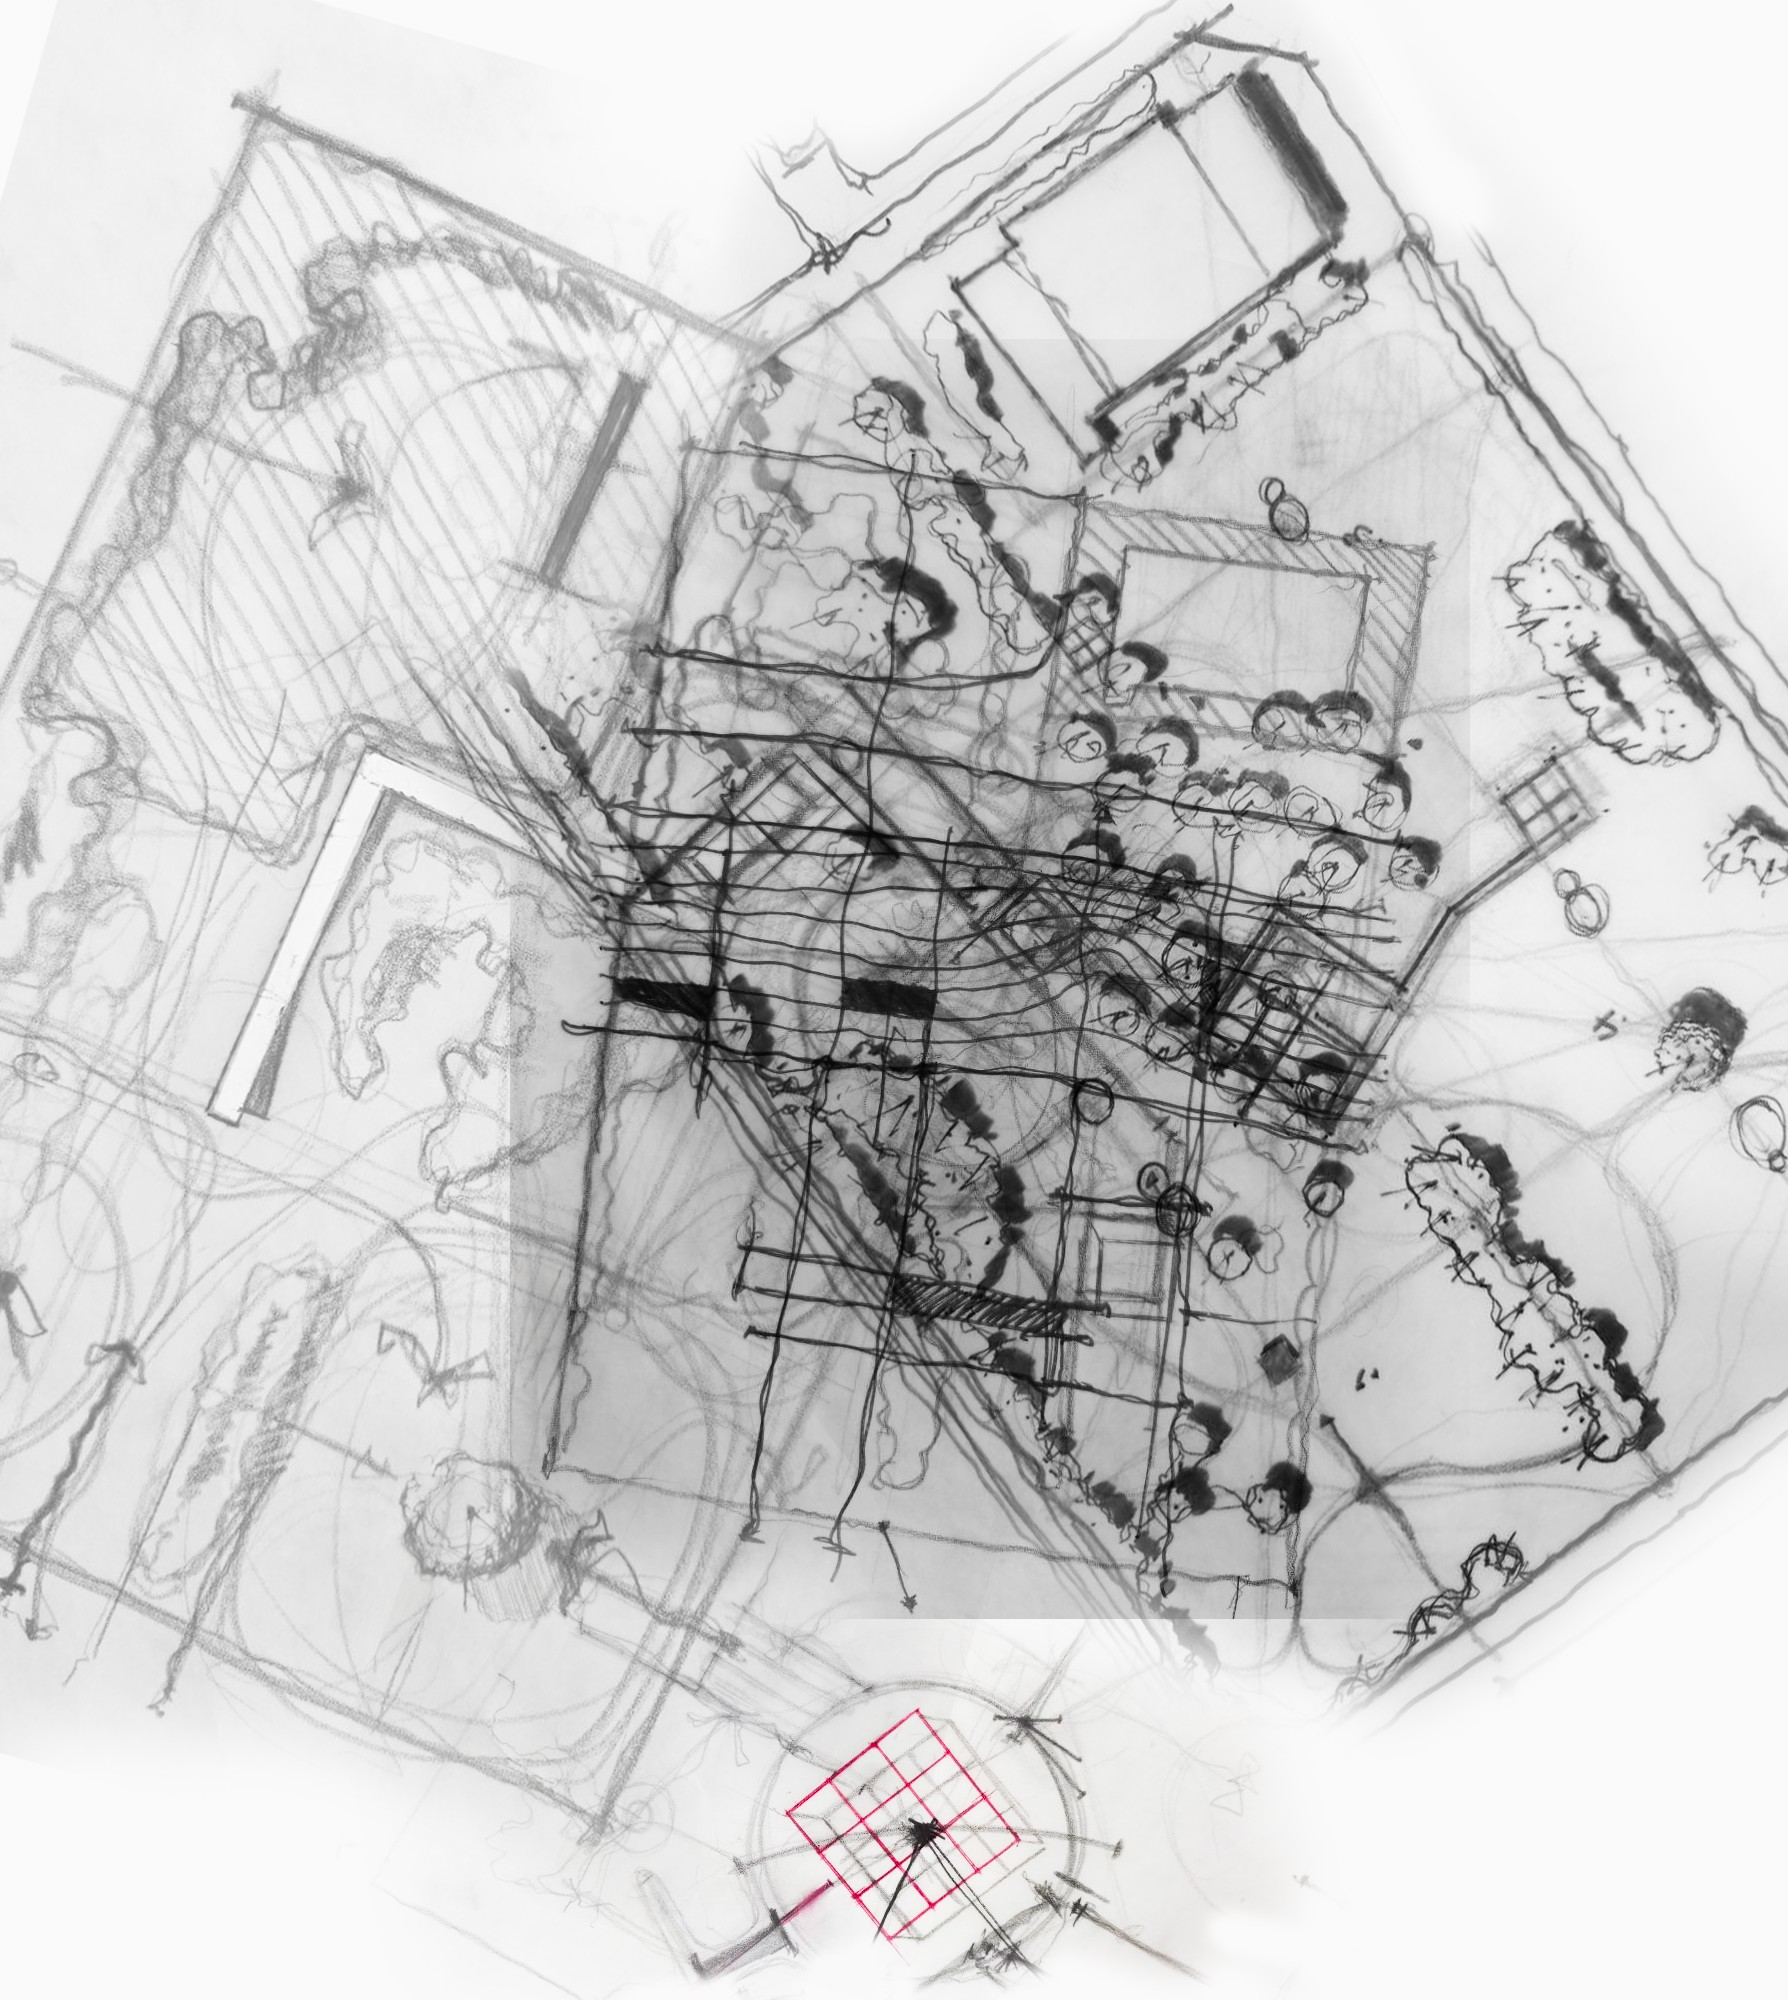
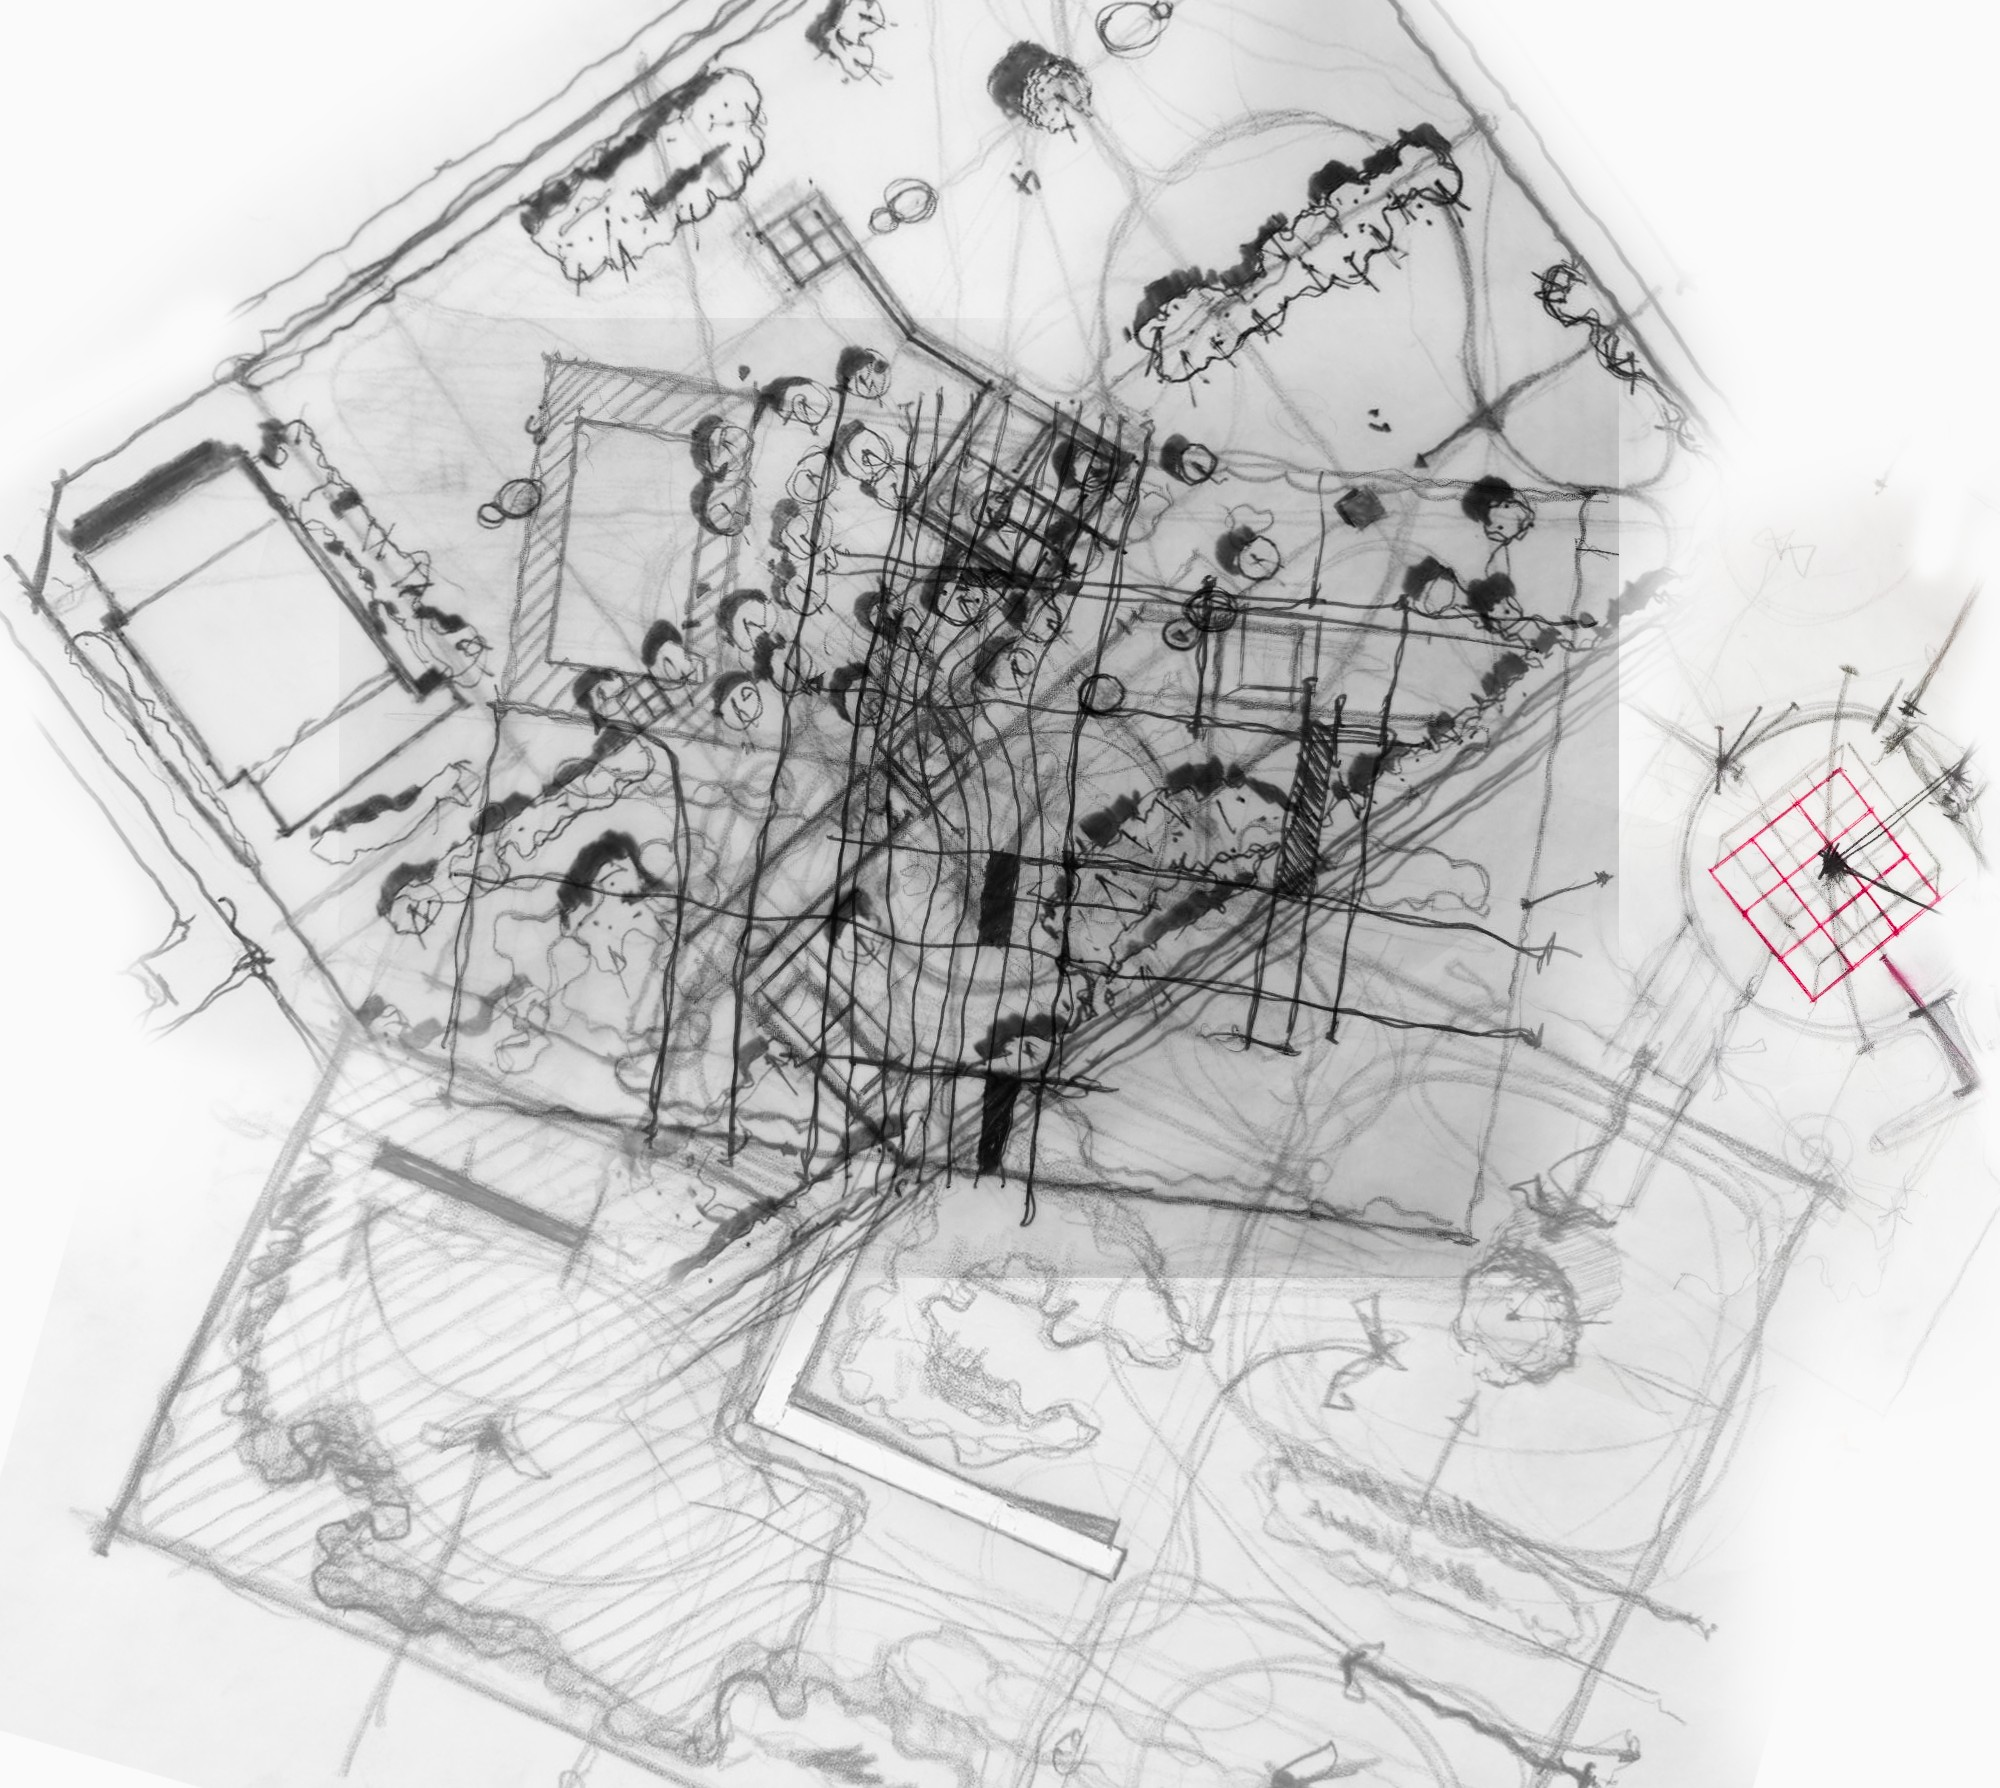
Set the hero in the drawing, full bleed and landscape
Picks up MJ's landscape re-crop of the concept sketch (2000x1788, replacing the
portrait 1788x2000) and rebuilds the opening so the copy sits inside the image
instead of beneath it.

The plate now runs the full width of the page, edge to edge and behind the
header, filling the opening screen at 92svh. The headline and the intro are
positioned over it, and the sheet fades into the page ground across its lower
half so the type has contrast to sit on. That fade is what makes the image and
the text read as one thing rather than as a picture with a caption under it.

Because the sheet is landscape now, cropping it to fill a wide screen costs only
the bare paper margins at top and bottom rather than the plan itself, which is
why cover works here and did not before.

Below lg the sheet keeps its own proportions and the copy follows underneath: a
portrait viewport would otherwise crop more than half the width away. The fade
is disabled there too, since there is nothing overlaid to protect.

Verified on desktop and mobile; the three motion guarantees still hold.

diff --git a/components/sections/Hero.tsx b/components/sections/Hero.tsx
@@ -2,68 +2,81 @@ import Image from 'next/image'
 import Link from 'next/link'
 
 /**
- * The opening plate runs full bleed across the top of the site, edge to edge and
- * behind the header, so the drawing is the first thing on the page. The copy
- * follows beneath it rather than sitting beside it.
+ * The opening plate runs full bleed, edge to edge and behind the header, and the
+ * copy sits inside it rather than under it. The sheet dissolves into the page
+ * ground at its foot, which is what lets the type sit on the drawing and still
+ * clear contrast, and is why the copy and the image read as one thing.
  */
 const HERO = {
   src: '/images/healing-garden/concept-sketch.jpg',
-  alt: 'Hand-drawn concept plan in pencil and ink: overlaid sheets of a site layout with tree canopies, hatched terraces, planting beds and circulation lines, and a small red grid study at the foot of the sheet.',
+  alt: 'Hand-drawn concept plan in pencil and ink: overlaid sheets of a site layout with tree canopies, hatched terraces, planting beds and circulation lines, and a small red grid study to one side.',
 }
 
 export default function Hero() {
   return (
     <section className="relative">
-      {/* The drawing's paper white is normalised to the page ground at publish
-          time, so the sheet meets the page with no visible seam. On narrow
-          screens the frame takes the drawing's own proportions and fits it
-          exactly; from lg up it becomes a tall band with the sheet centred, the
-          surplus white reading as page rather than as letterboxing. */}
-      <div
-        data-anim="plate"
-        className="relative aspect-[894/1000] w-full overflow-hidden bg-ground lg:aspect-auto lg:h-[86svh] lg:min-h-[420px]"
-      >
-        <Image
-          src={HERO.src}
-          alt={HERO.alt}
-          fill
-          priority
-          sizes="100vw"
-          className="object-contain"
-        />
-      </div>
-
-      <div className="shell grid gap-x-12 gap-y-8 pt-14 pb-16 lg:grid-cols-12 lg:pb-24">
-        <h1
-          data-anim="lines"
-          className="font-display text-[clamp(2.5rem,5.4vw,4.6rem)] leading-[0.95] tracking-[-0.04em] lg:col-span-7"
+      <div className="relative w-full">
+        {/* Below lg the sheet keeps its own proportions so nothing is cropped on
+            a phone. From lg up it fills the opening screen and is cropped from
+            the top and bottom margins, which are bare paper. */}
+        <div
+          data-anim="plate"
+          className="relative aspect-[2000/1788] w-full overflow-hidden bg-ground lg:aspect-auto lg:h-[92svh] lg:min-h-[560px]"
         >
-          Landscape architecture, drawn by the hand that designed it.
-        </h1>
+          <Image
+            src={HERO.src}
+            alt={HERO.alt}
+            fill
+            priority
+            sizes="100vw"
+            className="object-cover object-center"
+          />
 
-        <div className="lg:col-span-4 lg:col-start-9">
-          <p data-anim="rise" className="max-w-[46ch] text-ink-muted">
-            I&rsquo;m Mohamadjavad Shoori, an architect and graphic designer in Milan.
-            The masterplan, the diagrams, the boards and the identity are one
-            continuous piece of work, not four handoffs.
-          </p>
+          {/* The drawing fades into the page so the headline can live in it.
+              Only from lg up, where the copy is actually overlaid. */}
+          <div
+            aria-hidden
+            className="pointer-events-none absolute inset-x-0 bottom-0 hidden h-[58%] bg-gradient-to-t from-ground via-ground/88 to-transparent lg:block"
+          />
+        </div>
 
-          <div data-anim="stagger" className="mt-9 flex flex-wrap items-center gap-x-8 gap-y-4">
-            <Link
-              href="/work"
-              className="group inline-flex items-center gap-3 border-b border-ink pb-1 text-[0.95rem] transition-colors duration-300 hover:border-accent hover:text-accent"
+        <div className="relative lg:absolute lg:inset-x-0 lg:bottom-0">
+          <div className="shell grid gap-x-12 gap-y-7 pt-9 pb-14 lg:grid-cols-12 lg:pt-0 lg:pb-16">
+            <h1
+              data-anim="lines"
+              className="font-display text-[clamp(2.5rem,5.4vw,4.6rem)] leading-[0.95] tracking-[-0.04em] lg:col-span-7"
             >
-              See the work
-              <span
-                aria-hidden
-                className="transition-transform duration-500 ease-[cubic-bezier(0.16,1,0.3,1)] group-hover:translate-x-1.5"
-              >
-                &rarr;
-              </span>
-            </Link>
-            <Link href="/contact" className="link-underline text-[0.95rem] text-ink-muted hover:text-ink">
-              Start a project
-            </Link>
+              Landscape architecture, drawn by the hand that designed it.
+            </h1>
+
+            <div className="lg:col-span-4 lg:col-start-9 lg:self-end">
+              <p data-anim="rise" className="max-w-[46ch] text-ink-muted">
+                I&rsquo;m Mohamadjavad Shoori, an architect and graphic designer in
+                Milan. The masterplan, the diagrams, the boards and the identity
+                are one continuous piece of work, not four handoffs.
+              </p>
+
+              <div data-anim="stagger" className="mt-7 flex flex-wrap items-center gap-x-8 gap-y-4">
+                <Link
+                  href="/work"
+                  className="group inline-flex items-center gap-3 border-b border-ink pb-1 text-[0.95rem] transition-colors duration-300 hover:border-accent hover:text-accent"
+                >
+                  See the work
+                  <span
+                    aria-hidden
+                    className="transition-transform duration-500 ease-[cubic-bezier(0.16,1,0.3,1)] group-hover:translate-x-1.5"
+                  >
+                    &rarr;
+                  </span>
+                </Link>
+                <Link
+                  href="/contact"
+                  className="link-underline text-[0.95rem] text-ink-muted hover:text-ink"
+                >
+                  Start a project
+                </Link>
+              </div>
+            </div>
           </div>
         </div>
       </div>

diff --git a/content/image-sizes.ts b/content/image-sizes.ts
@@ -15,7 +15,7 @@ export const imageSizes: Record<string, { width: number; height: number }> = {
   '/images/elahie-urban-playground/isometric.jpg': { width: 934, height: 1364 },
   '/images/four-and-seven/concept-to-built-form.jpg': { width: 1700, height: 1202 },
   '/images/four-and-seven/identity.jpg': { width: 2200, height: 1555 },
-  '/images/healing-garden/concept-sketch.jpg': { width: 1788, height: 2000 },
+  '/images/healing-garden/concept-sketch.jpg': { width: 2000, height: 1788 },
   '/images/heliotrope/campaign.jpg': { width: 2200, height: 1555 },
   '/images/heliotrope/catalogue.jpg': { width: 1700, height: 1202 },
   '/images/hidden-illusion-of-bygone-landscape/bicycle-station-art-gallery.jpg': { width: 933, height: 1364 },
